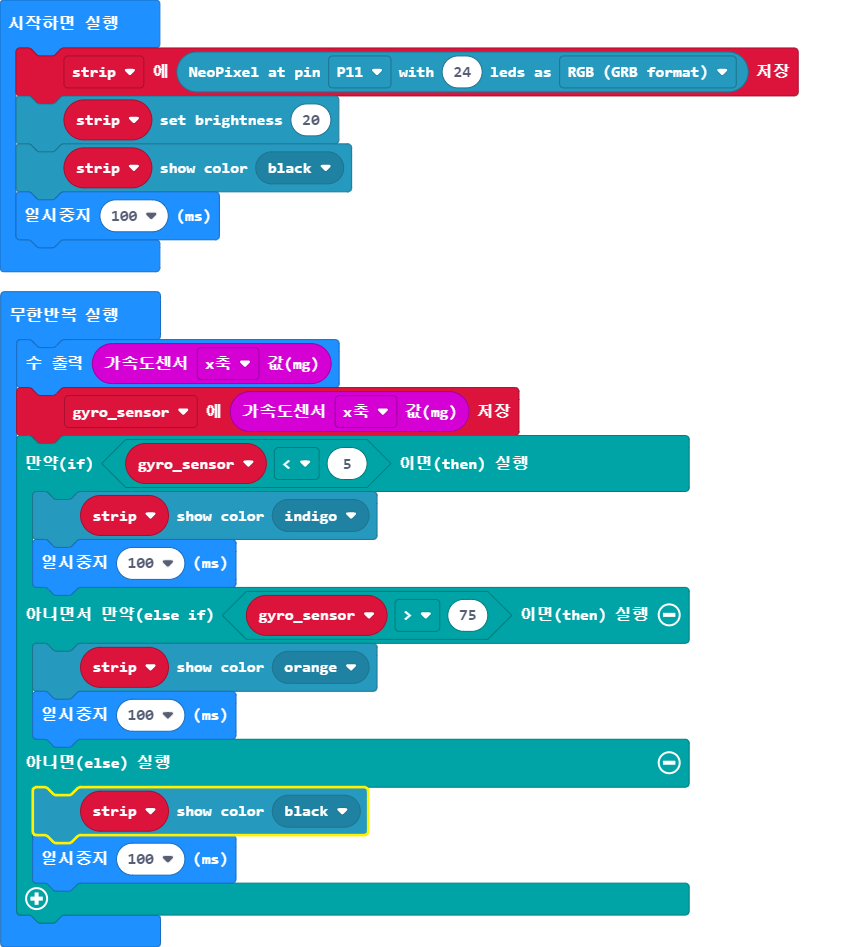
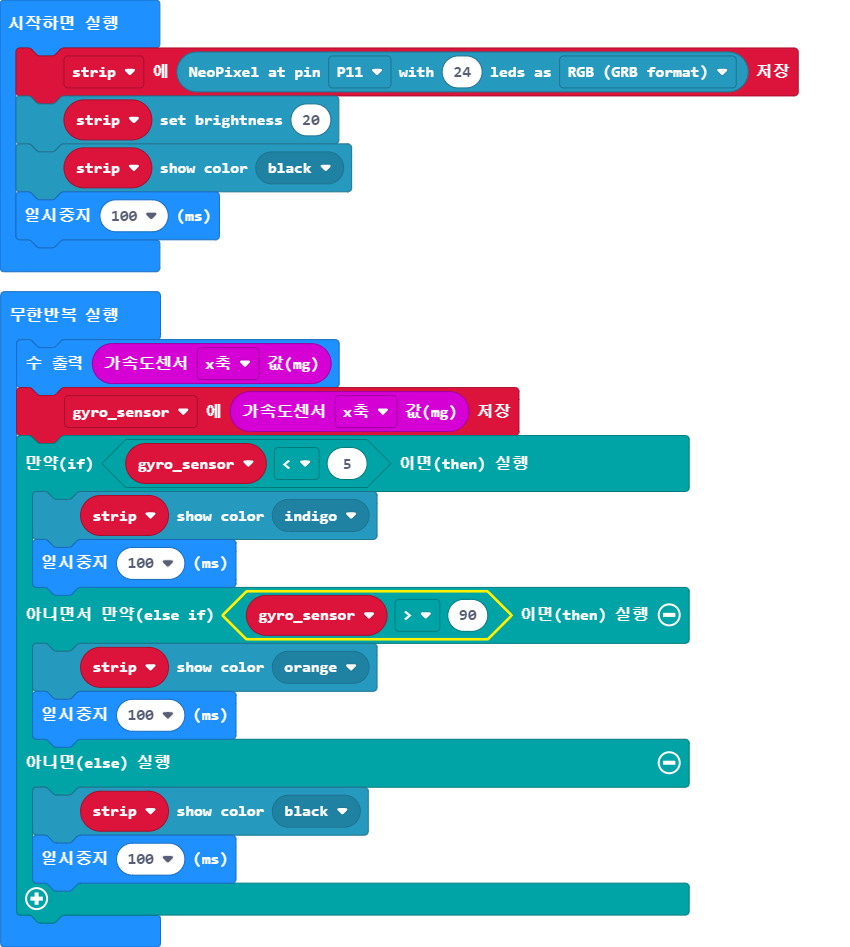
Update main.blocks, main.ts

diff --git a/main.ts b/main.ts
@@ -9,7 +9,7 @@ basic.forever(function () {
     if (gyro_sensor < 5) {
         strip.showColor(neopixel.colors(NeoPixelColors.Indigo))
         basic.pause(100)
-    } else if (gyro_sensor > 75) {
+    } else if (gyro_sensor > 90) {
         strip.showColor(neopixel.colors(NeoPixelColors.Orange))
         basic.pause(100)
     } else {
